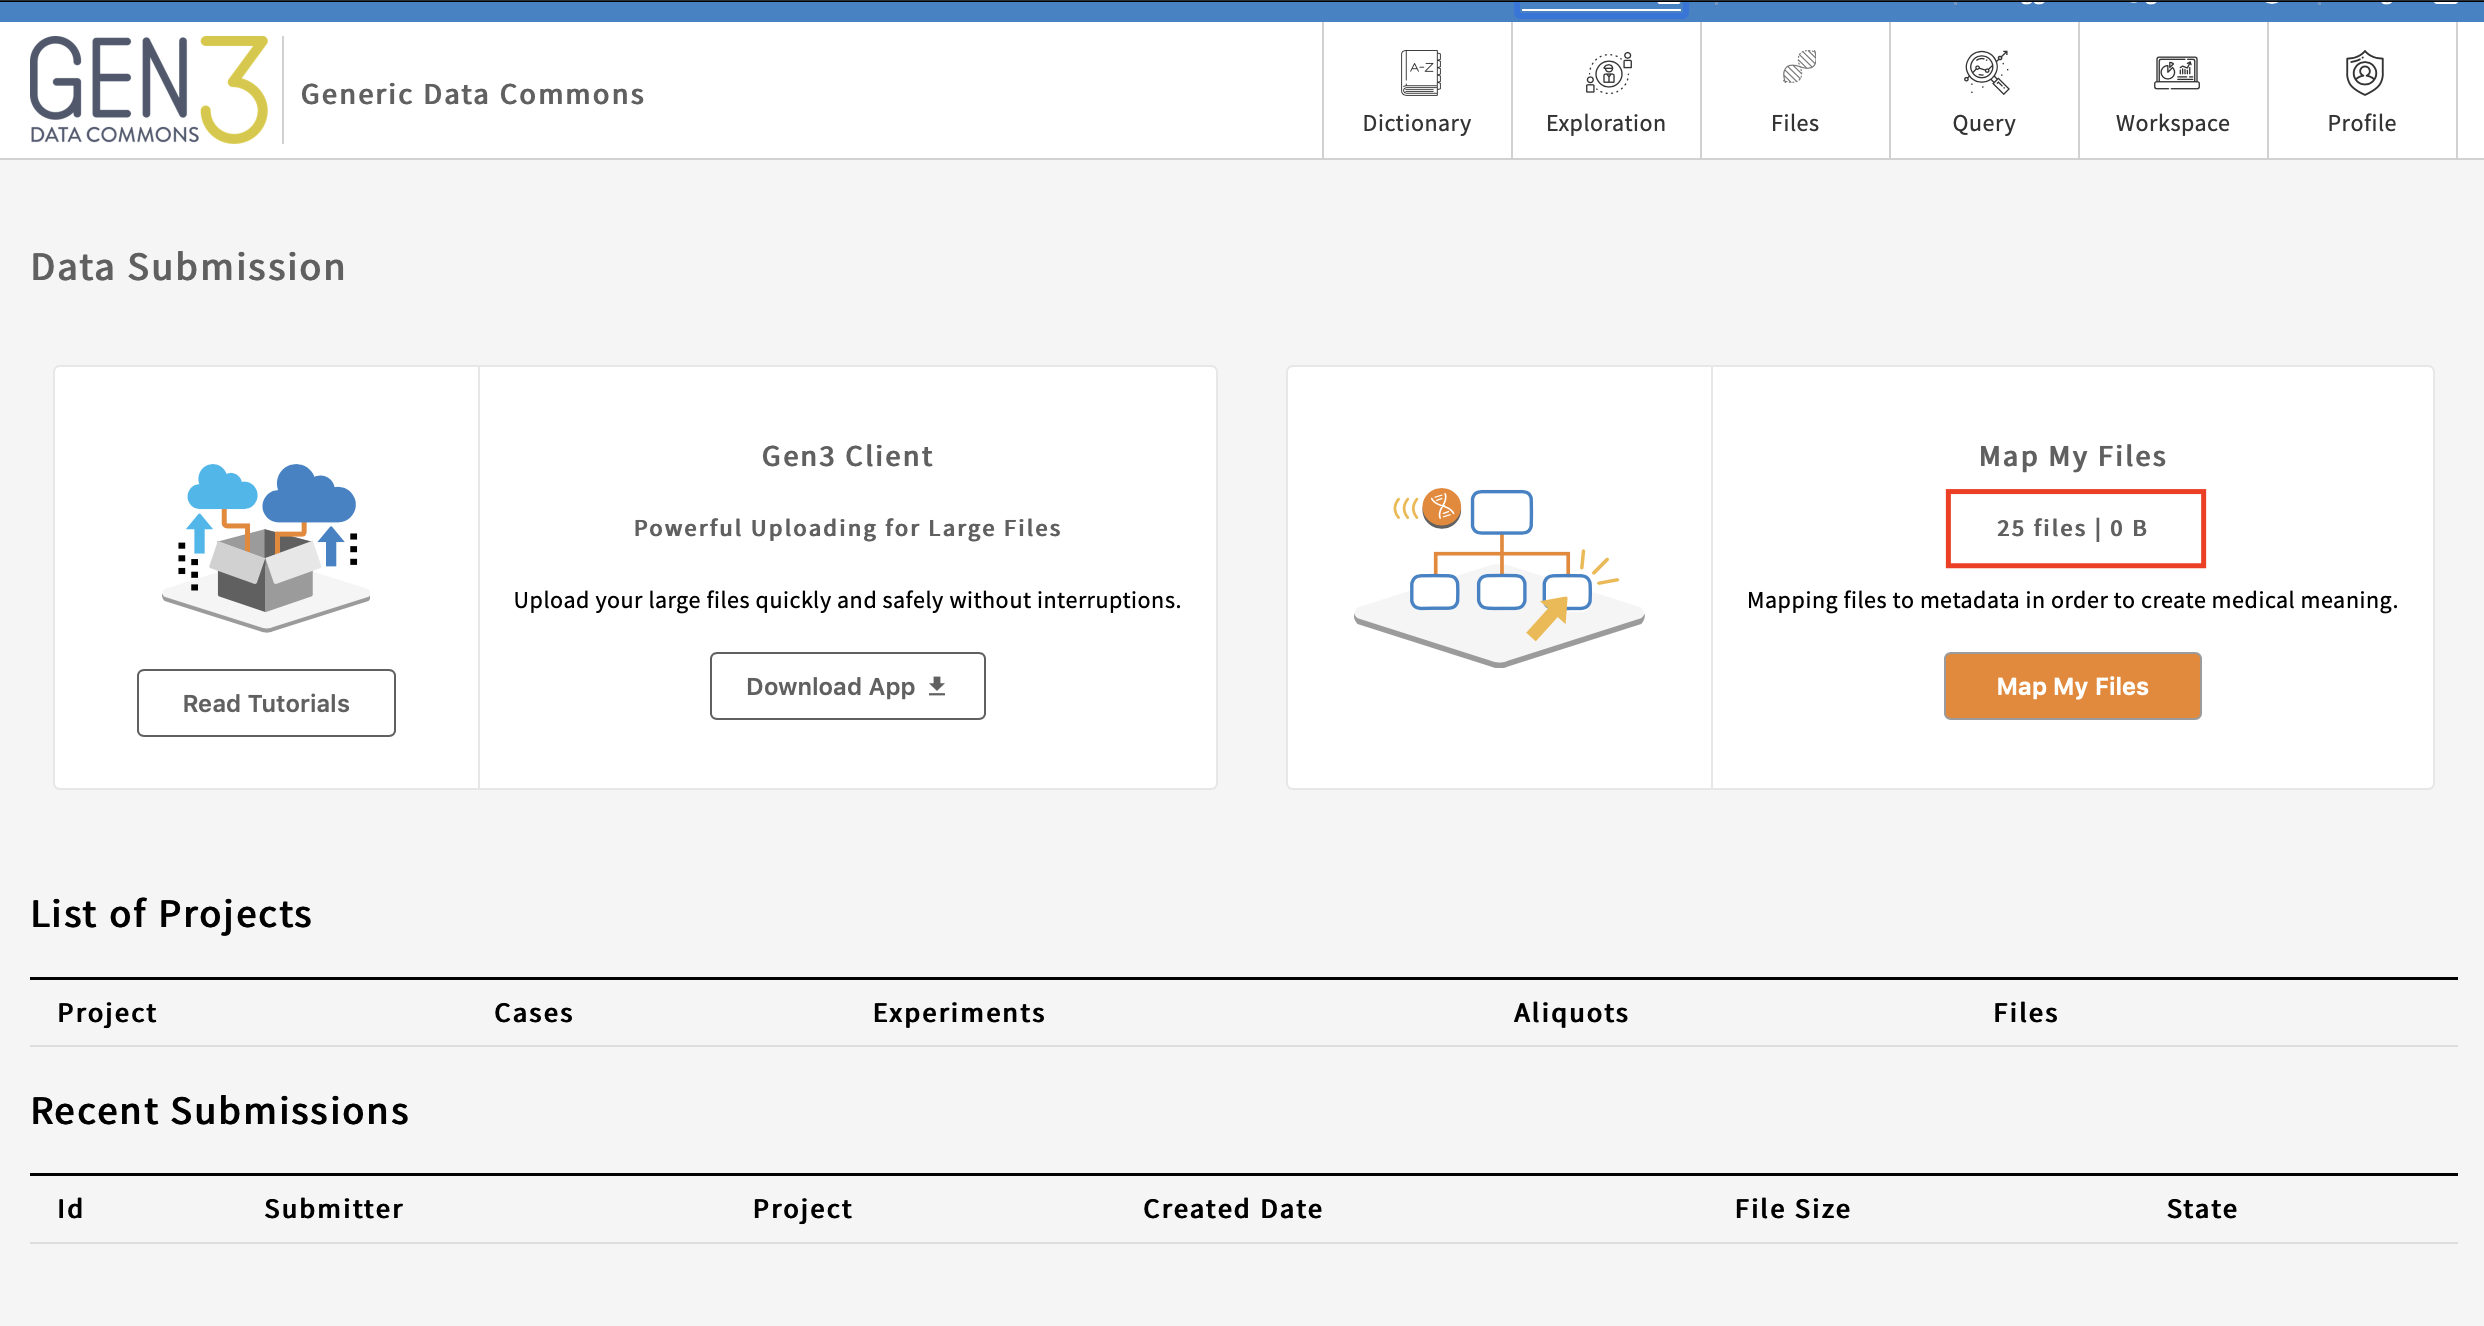
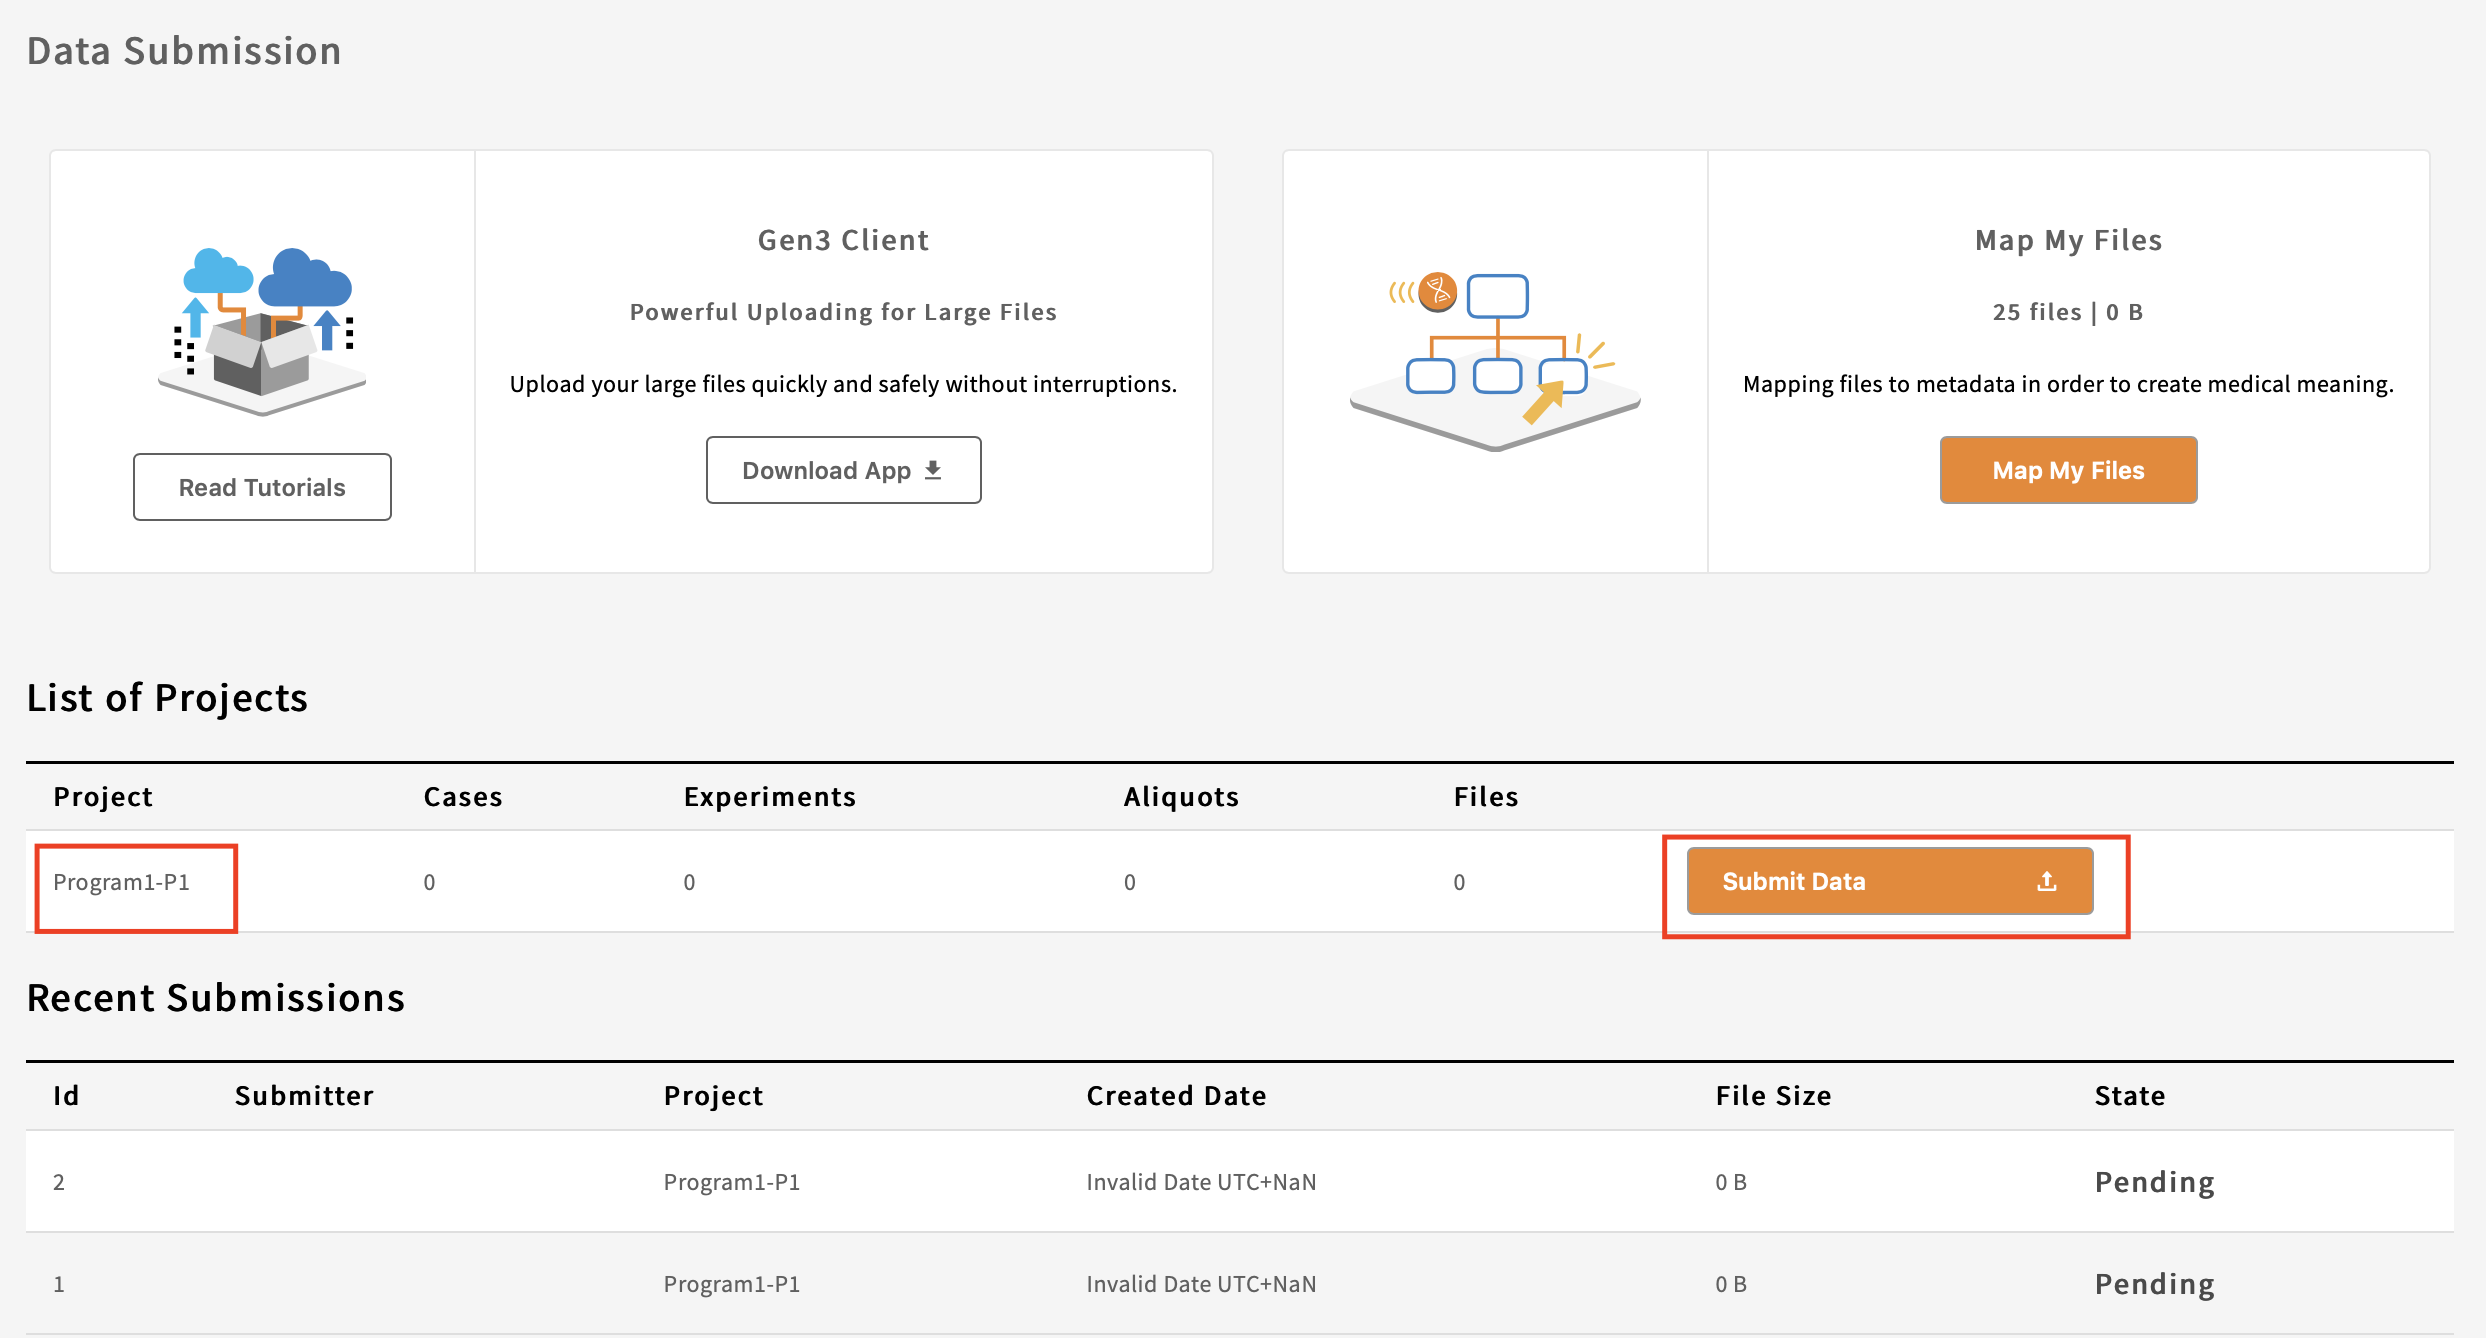
Updates. Removed some things

diff --git a/README.md b/README.md
@@ -51,19 +51,52 @@
 1. While local instance is running, visit `https://localhost/Program1`
 2. Enable _User Form Submission_ button and select _project_ from drop-down 
 3. Enter _P1_, _phs1_, and _project1_ ![image](images/program.png)
-4. Click _Upload submission json from form_ and see the green result. Note: You may have to hit the button SEVERAL times to see the green result. ![image](images/program_1.png)
-5. Verify your project is Created by clicking the blue Details button and/or checking the databse with `select * from node_project;`
+4. Click _Upload submission json from form_ and see the green result. Note: You may have to hit the button **SEVERAL** times to see the green result. ![image](images/program_1.png)
+5. Verify your project is Created by clicking the blue Details button and/or checking the database with `select * from node_project;`
+
+### Update user.yaml
+1. Under `authz.resources` path in the `Secrets/user.yaml` file, replace the _Old_ with the _New_, using the program name `Program1` value and project code `P1`
+```yaml
+# Old
+  - name: programs
+    subresources:
+    - name: MyFirstProgram
+      subresources:
+      - name: projects
+        subresources:
+        - name: MyFirstProject
+```
+
+```yaml
+# New - NOTE that Gen3 config demands P1 which is the project CODE not NAME
+  - name: programs
+    subresources:
+    - name: Program1
+      subresources:
+      - name: projects
+        subresources:
+        - name: P1
+```
+2. Under `authz.policies` find the id `MyFirstProject_submitter` and update the `resource_paths` value of `/programs/MyFirstProgram/projects/MyFirstProject` to be `/programs/Program1/projects/P1`  
+3. Refresh using `docker exec -it fence-service fence-create sync --arborist http://arborist-service --yaml user.yaml` to have the containers recognize the `user.yaml` changes 
 
 ### Generate Test Metadata
-1. Generate test metadata
+1. Generate test metadata for the `Program1` program and `P1` project
 ```console
 $ export TEST_DATA_PATH="$(pwd)/testData"
 $ mkdir -p "$TEST_DATA_PATH"
 
-$ docker run -it -v "${TEST_DATA_PATH}:/mnt/data" --rm --name=dsim --entrypoint=data-simulator quay.io/cdis/data-simulator:master simulate --url https://s3.amazonaws.com/dictionary-artifacts/datadictionary/develop/schema.json --path /mnt/data --program jnkns --project jenkins --max_samples 10
+$ docker run -it -v "${TEST_DATA_PATH}:/mnt/data" --rm --name=dsim --entrypoint=data-simulator quay.io/cdis/data-simulator:master simulate --url https://s3.amazonaws.com/dictionary-artifacts/datadictionary/develop/schema.json --path /mnt/data --program Progam1 --project P1 --max_samples 10
 ```
 
-### Download and configure up Gen3 Client
+### Upload Test Metadata to Project
+1. Visit https://localhost/submission and click _Submit Data_
+![image](images/submission.png)
+2. Click _Upload file_ and choose the `core_metadata_collection.json` file from the `/testData` directory ![image](images/project_upload.png)
+3. Click _Submit_ and make sure you see a Success 200 message ![image](images/project_upload_1.png)
+4. **Optional:** Repeat steps 2 and 3 for other test metadata files. For instance after `experiment.json` and `experimental_metadata.json` have been uploaded you should see the following at https://localhost/Program1-P1  ![image](images/project_upload_2.png)
+
+<!-- ### Download and configure up Gen3 Client
 ```console
 $ ./gen3-client configure --profile=cse_profile --cred=~/Downloads/credentials.json --apiendpoint=http://localhost/
 2020/12/12 14:47:41 Profile 'cse_profile' has been configured successfully.
@@ -90,9 +123,9 @@ If you get the above warning add the following to the end of your `Secrets/gitop
 * You will need to restart the `portal-service` using `docker-compose restart portal-service` or shutdown the entire docker compose environment using `docker-compose down` and then `docker-compose up -d`
 
 * After you log back in navigate to https://localhost/identity to verify you have access to resources
-![image](images/profile.png)
+![image](images/profile.png) -->
 
-### Upload test data using Gen3 client
+<!-- ### Upload test data using Gen3 client
 
 1. Use the test metadata you previously created at `/testData`
 2. Run the command `gen3-client upload --profile=cse_profile --upload-path=testData/`
@@ -114,22 +147,28 @@ Finished with 4 retries | 1
 Finished with 5 retries | 2
 Failed                  | 3
 TOTAL                   | 28
-```
+``` -->
 
-### Mapping uploaded test metadata
+<!-- ### Mapping uploaded test metadata
 
 From https://gen3.org/resources/user/gen3-client/#3-upload-data-files:
 > Files that have been successfully uploaded now have a GUID associated with them, and there is also an associated record in the indexd database. However, in order for the files to show up in the data portal, the files have to be registered in the PostgreSQL database. In other words, indexd records exist for the files, but sheepdog records (that is, structured metadata in the graph model) don’t exist yet. Thus, the files aren’t yet associated with any particular program, project, or node. To create the structured data records for the files via the sheepdog service, Windmill offers a “Map My Files” UI
 
 In the screenshot below you can see the 25 files that got uploaded. Click the _Map My Files button_
-![image](images/submission.png)
+![image](images/submission.png) -->
 
-**Debug Postgres**
+## Appendix
 
-`docker exec -it compose-services_postgres_1 bash` 
+### Questions
+* Mapping of files seems to be a very manual process. Is there a way to do bulk mapping of metadata to files (blobs) offline then just import once?
+* In the local setup AWS components (SQS, Lambda?) are needed to have a blob upload. Is there a way to simulate this?
 
-`psql -Atx postgresql://fence_user:fence_pass@localhost/metadata_db`
+### Debug Postgres
 
+1. If you did not expose the port in Docker Compose you can connect to the local Postgres container with `docker exec -it compose-services_postgres_1 bash`.
+2. Once inside the container run `psql -Atx postgresql://fence_user:fence_pass@localhost/metadata_db`
+
+**Alternatively**, if you are exposing the ports you can connect using psql from your main console window using the following:
 Verify _Program1_ exists in the DB
 ```console
 $ psql -Atx postgresql://fence_user:fence_pass@localhost/metadata_db
@@ -156,7 +195,11 @@ _sysan|{}
 _props|{"code": "P1", "name": "project1", "state": "open", "dbgap_accession_number": "phs1"}
 node_id|49a949ef-60e1-5dba-84b9-7e3b2d37cdaf
 ```
+### Links
 
+* [Gen3 Data Commons Setup - Part 1](https://www.youtube.com/watch?v=xM54O4aMpWY)
+* [Gen3 Data Commons Setup - Part 2](https://www.youtube.com/watch?v=iMmCxnbHpGo)
+* [Gen3 Data Commons - Data Upload Tutorial](https://www.youtube.com/watch?v=QxQKXlbFt00)
 
 
 
